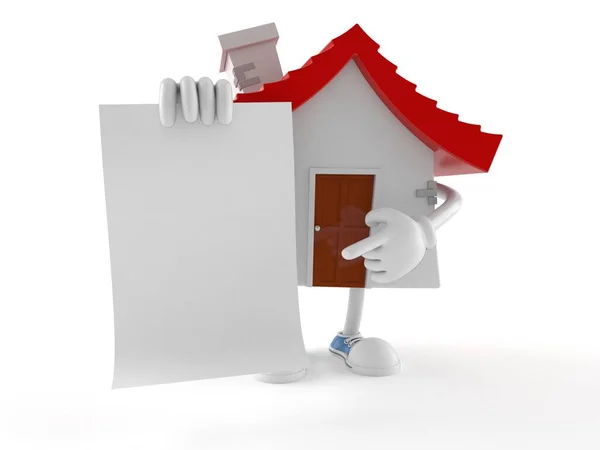
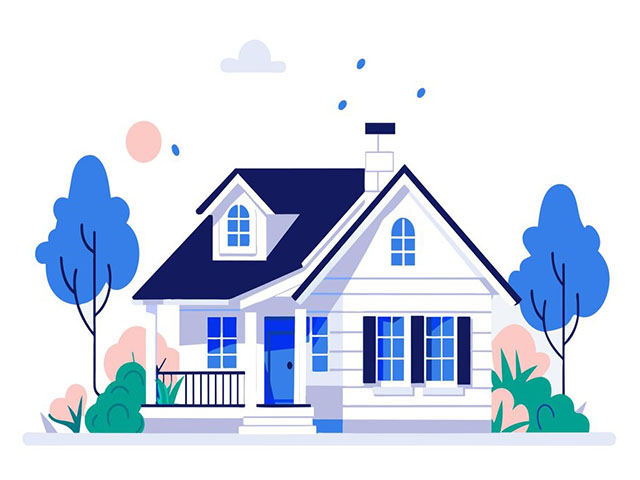
up

diff --git a/next-app/src/pages/property-crm-calender/calendar.css b/next-app/src/pages/property-crm-calender/calendar.css
@@ -1,0 +1,18 @@
+.rbc-toolbar .rbc-toolbar-label {
+    font-size: 1.25rem;
+    font-weight: bold;
+}
+.rbc-event, .rbc-day-slot .rbc-background-event{
+	background-color: #1365CF;
+}
+.rbc-toolbar button:active:hover, .rbc-toolbar button:active:focus, .rbc-toolbar button.rbc-active:hover, .rbc-toolbar button.rbc-active:focus{
+	background-color: #1365cf;
+    border-color: #1365cf;
+	color: #ffffff;
+}
+.rbc-toolbar button:active, .rbc-toolbar button.rbc-active{
+	box-shadow: none;
+	background-color: #1365cf;
+    border-color: #1365cf;
+	color: #ffffff;
+}

diff --git a/next-app/public/assets/css/style.scss b/next-app/public/assets/css/style.scss
@@ -2673,6 +2673,7 @@ ul.dashboard-box-list {
 		}
 	}
 }
+
 @media screen and (min-width: 992px){
 	.ul-table {
 		display: table;
@@ -2695,6 +2696,7 @@ ul.dashboard-box-list {
 	}
 	
 }
+
 @media screen and (max-width: 991.98px){
 	.ul-table {
 		&>ul {
@@ -2751,7 +2753,6 @@ ul.dashboard-box-list {
 		padding: 0.75rem 1rem;
 	}
 }
-
 
 .nav-tabs {
 	.nav-link {
@@ -5611,6 +5612,7 @@ fieldset{
 	height: calc(100% - 1.5rem);
 	margin-bottom: 1.5rem;
 }
+
 
 /* Media Start */
 @media (min-width: 576px) {

diff --git a/next-app/src/pages/property-crm-calender/index.js b/next-app/src/pages/property-crm-calender/index.js
@@ -4,8 +4,8 @@ import DashboardLayout from "@/components/layout/DashboardLayout";
 import { Calendar, momentLocalizer } from "react-big-calendar";
 import moment from "moment";
 import "react-big-calendar/lib/css/react-big-calendar.css";
+import './calendar.css';
 import AuthUser from "@/components/Authentication/AuthUser";
-import { Modal, Button } from "react-bootstrap";
 import { toast } from "react-toastify";
 import withAuth from "@/utils/withAuth";
 import useTranslation from "@/hooks/useTranslation";